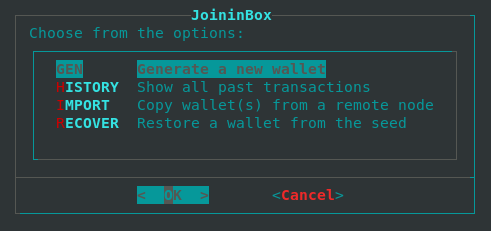
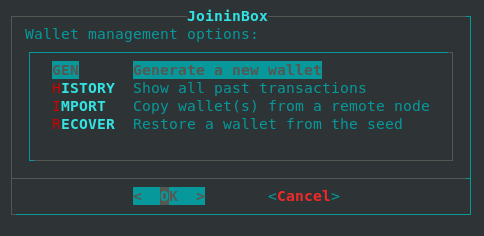
readme: update pics and menu titles

diff --git a/README.md b/README.md
@@ -1,4 +1,31 @@
-## JoininBox - Build a dedicated JoinMarket Box remotely connected to a full node
+# JoininBox
+
+A terminal based menu and helper UI for JoinMarket. 
+
+<p align="left">
+  <img width="400" src="/images/menu.png">
+</p>
+<p align="left">
+  <img width="400" src="/images/menu.yg.png">
+</p>
+<p align="left">
+  <img width="400" src="/images/menu.wallet.png">
+</p>
+
+## Install the JoininBox menu on a RaspiBlitz v1.5+ 
+* Run the script in the RaspiBlitz terminal (will install JoinMarket if not active already):
+  ```bash
+  # download
+  wget https://raw.githubusercontent.com/openoms/joininbox/master/build_menu_on_raspiblitz.sh
+  # run
+  bash build_menu_on_raspiblitz.sh
+  ```
+
+## Build a dedicated JoinMarket Box remotely connected to a full node
+
+<p align="left">
+  <img width="400" src="/images/joininbox.jpeg">
+</p>
 
 * Test environments:
   * Hardkernel Odroid XU4 running Armbian
@@ -22,15 +49,6 @@ or
   sudo bash build_joininbox.sh --with-tor
   ```
 
-### Installing the Joininbox menu on a RaspiBlitz v1.5+ 
-* Run the script in the RaspiBlitz terminal (will install JoinMarket if not active already):
-  ```bash
-  # download
-  wget https://raw.githubusercontent.com/openoms/joininbox/master/build_menu_on_raspiblitz.sh
-  # run
-  bash build_menu_on_raspiblitz.sh
-  ```
-
 * start in the RaspiBlitz terminal:
  `sudo su joinmarket`
 
@@ -50,39 +68,3 @@ or
 * Telegram: https://t.me/joinmarketorg  
 * IRC: #joinmarket on Freenode  
 * Reddit: https://www.reddit.com/r/joinmarket/  
-
---- 
-
-There is a terminal based GUI in the works.
-
-**Work In Progress** - suggestions and contributions are welcome
-
-<p align="left">
-  <img width="400" src="/images/menu.png">
-</p>
-<p align="left">
-  <img width="400" src="/images/menu.yg.png">
-</p>
-<p align="left">
-  <img width="400" src="/images/menu.wallet.png">
-</p>
-
-### Rough plan
-
-- [x] INFO "Wallet information" 
-- [ ] QT "Open the JoinMarket-QT GUI" 
-- [x] MAKER "Run the Yield Generator" 
-- [x] YG-LIST "List the past YG activity" 
-- [x] OBWATCH "Run the offer book locally" 
-- [ ] EMPTY "Empty a mixdepth" 
-- [x] YG_CONF "Configure the Yield Generator" 
-- [x] STOP "Stop the Yield Generator" 
-- [x] GEN "Generate a wallet" 
-- [x] IMPORT "Copy wallet(s) from a remote node" 
-- [x] RECOVER "Restore a wallet" 
-- [x] INSTALL "Install and configure JoinMarket" 
-- [x] UPDATE "Update JoininBox"
-
-- [ ] Guide connection to a remote node
-
-
